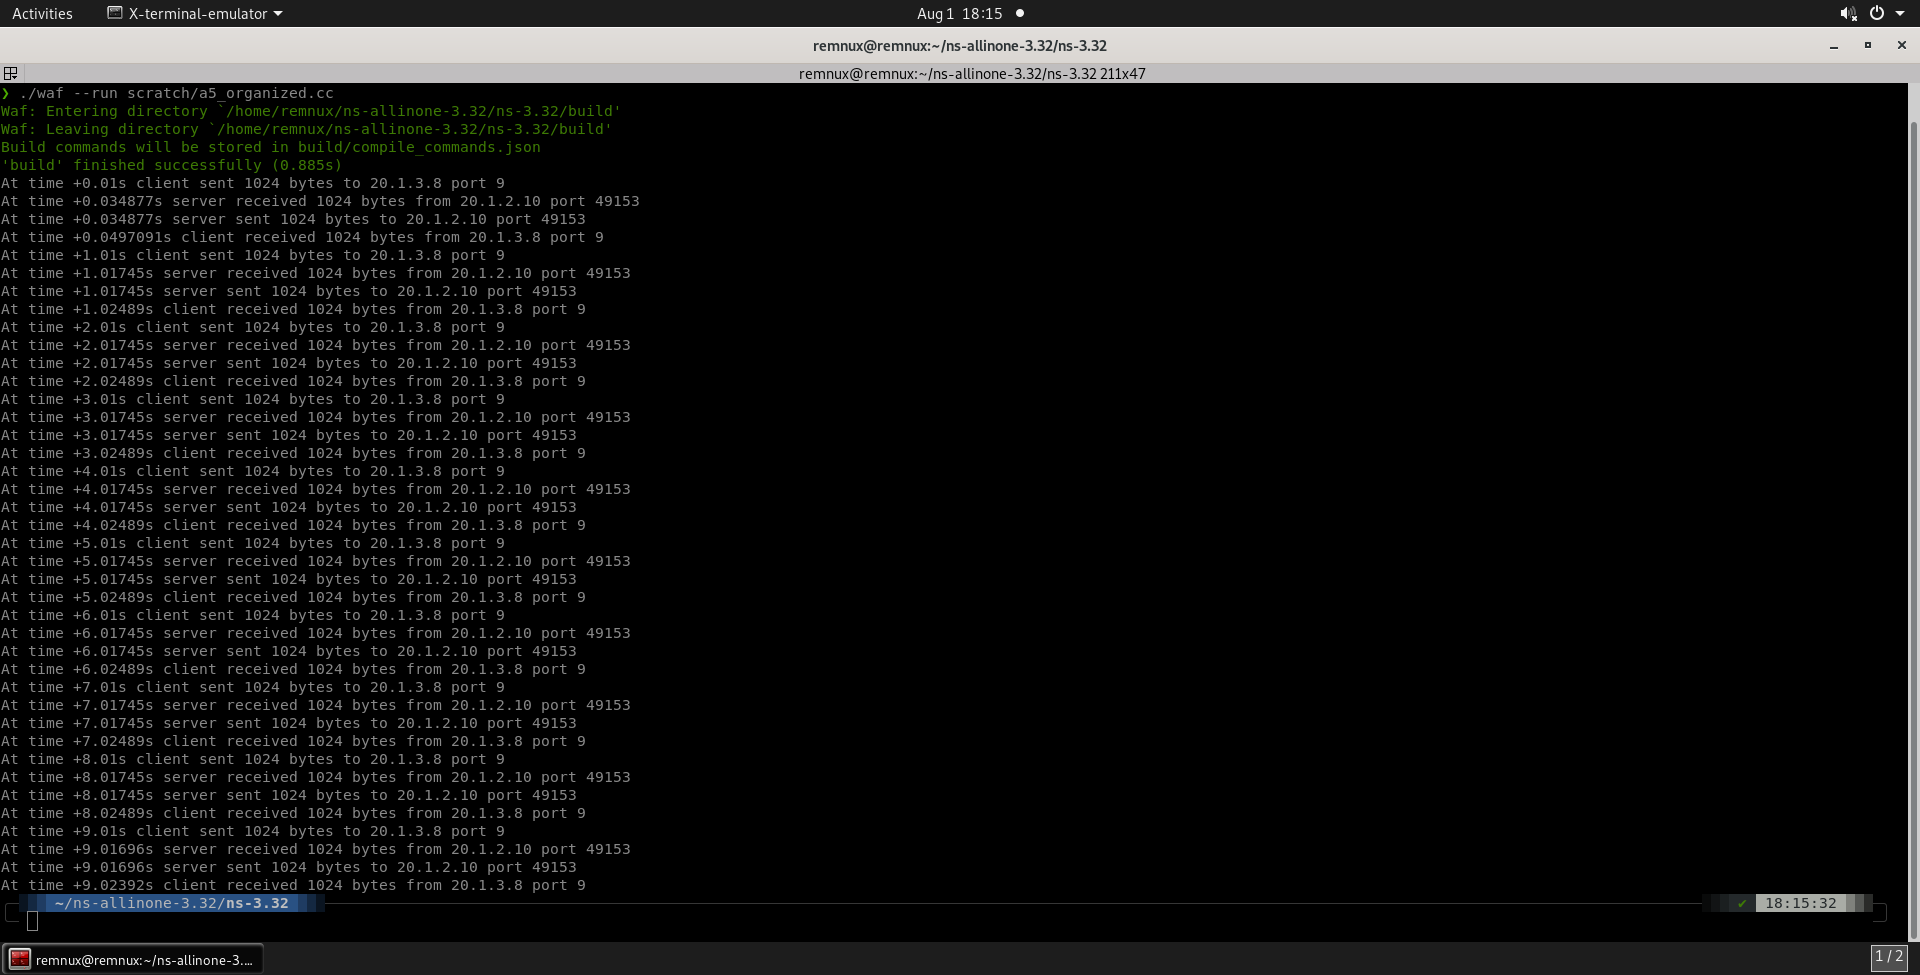
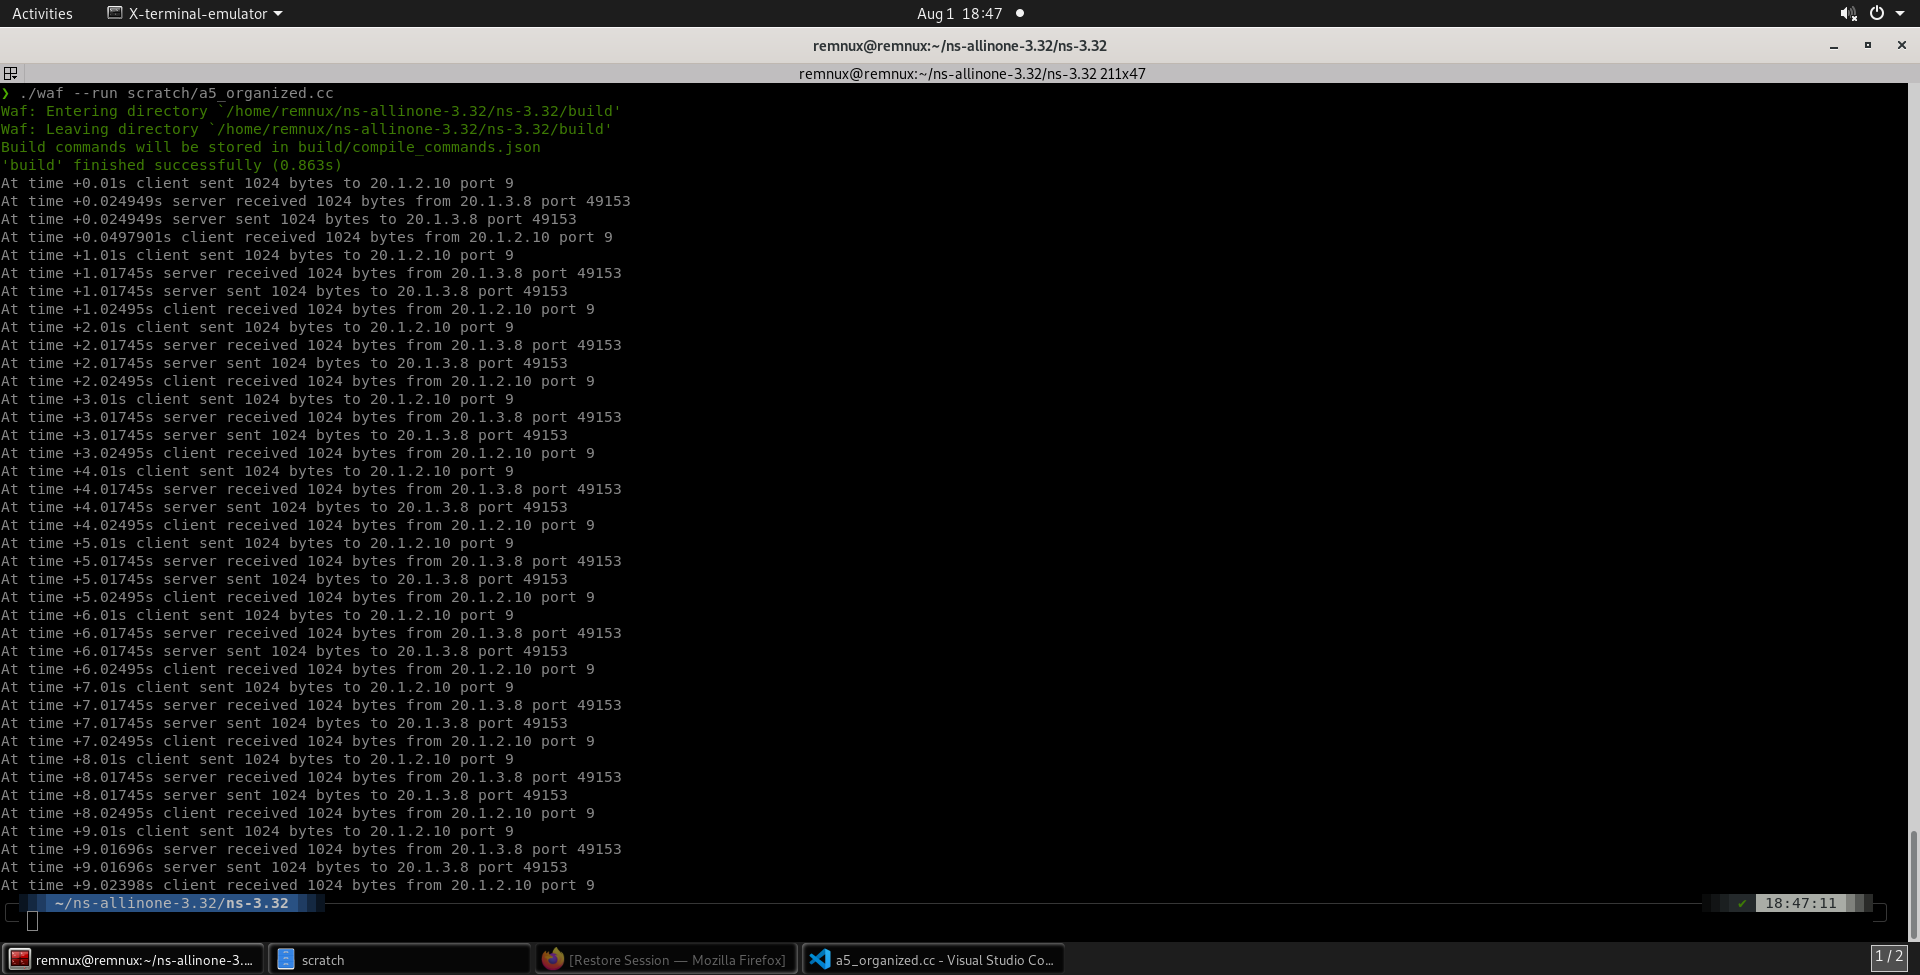
Adjusted server and client positions

Changed region(s): [[0.2188, 0.1846, 0.3125, 0.9231], [0.2812, 0.9538, 0.5312, 1.0], [0.125, 0.9538, 0.1562, 1.0]]

diff --git a/a5-ns3/a5_organized.cc b/a5-ns3/a5_organized.cc
@@ -84,8 +84,9 @@ int main(int argc, char *argv[])
     stack.Install(wifiStaNodes);
 
     address.SetBase("20.1.2.0", "255.255.255.0");
-    address.Assign(apDevices);
-    address.Assign(staDevices);
+    Ipv4InterfaceContainer apInterfaces, staInterfaces;
+    apInterfaces = address.Assign(apDevices);
+    staInterfaces = address.Assign(staDevices);
 
     mobility.SetPositionAllocator("ns3::GridPositionAllocator",
                                   "MinX", DoubleValue(20.0),
@@ -132,16 +133,16 @@ int main(int argc, char *argv[])
     /**************Application******************/
     UdpEchoServerHelper echoServer(9);
 
-    ApplicationContainer serverApps = echoServer.Install(csmaNodes.Get(nCsma));
+    ApplicationContainer serverApps = echoServer.Install(wifiStaNodes.Get(nWifi - 1));
     serverApps.Start(Seconds(0.01));
     serverApps.Stop(Seconds(10.0));
 
-    UdpEchoClientHelper echoClient(csmaInterfaces.GetAddress(nCsma), 9);
+    UdpEchoClientHelper echoClient(staInterfaces.GetAddress(nWifi - 1), 9);
     echoClient.SetAttribute("MaxPackets", UintegerValue(100));
     echoClient.SetAttribute("Interval", TimeValue(Seconds(1.0)));
     echoClient.SetAttribute("PacketSize", UintegerValue(1024));
 
-    ApplicationContainer clientApps = echoClient.Install(wifiStaNodes.Get(nWifi - 1));
+    ApplicationContainer clientApps = echoClient.Install(csmaNodes.Get(nCsma));
     clientApps.Start(Seconds(0.01));
     clientApps.Stop(Seconds(10.0));
 
